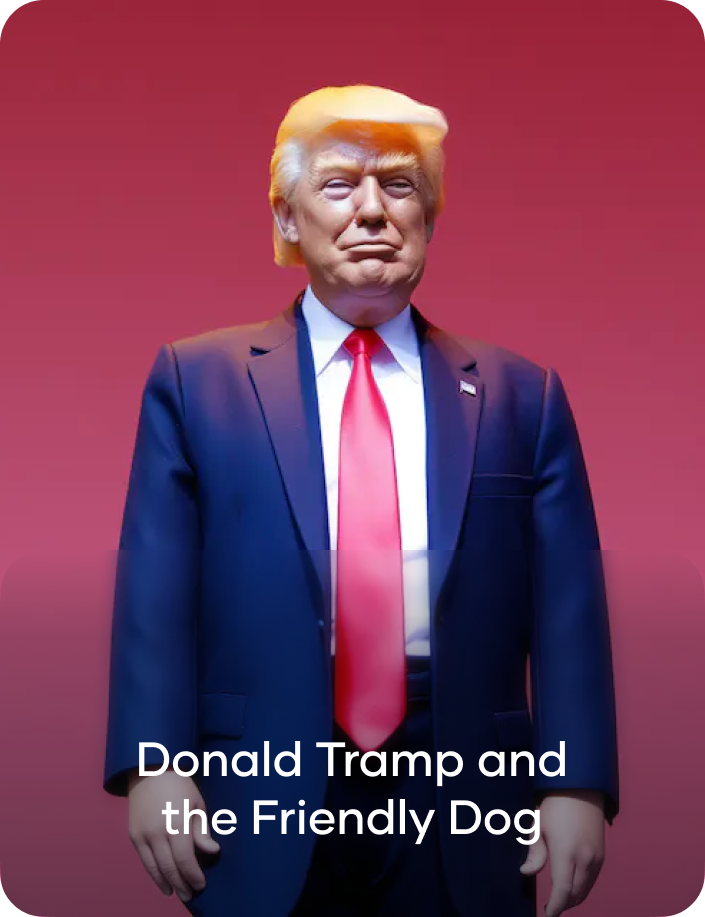
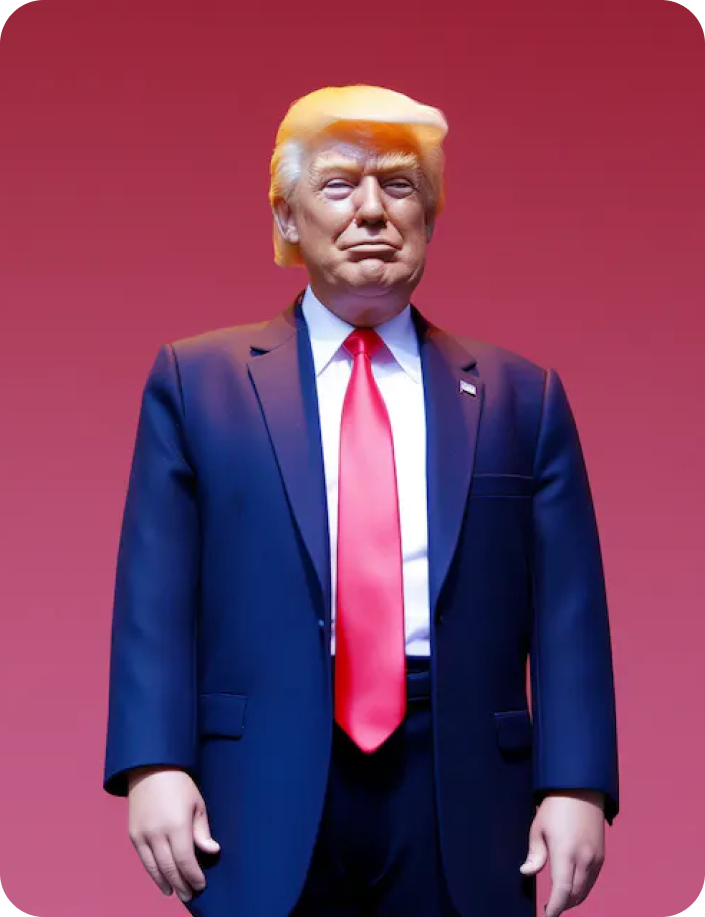
slider img replaced with bg img

Changed region(s): [[0.0, 0.5802, 1.0, 1.0]]

diff --git a/index.html b/index.html
@@ -142,22 +142,52 @@
                 <button class="toggle">toggle overflow</button>
                 <div class="wrapper">
                     <div class="box">
-                        <img class="w-3/5" src="./assets/images/elon.png" alt="">
+                        <div class="w-3/5 image" style="background-image: url('./assets/images/elon-2.png');
+                             background-size: cover; background-repeat: no-repeat; min-height: 400px; width: 70%;">
+                            <div class="flex justify-center px-8 py-10 items-end h-full">
+                                <p class="text-white text-2xl text-center gilmer-medium">Elon Mask and the Big Race</p>
+                            </div>
+                        </div>
                     </div>
                     <div class="box middle-item">
-                        <img class="w-3/5" src="./assets/images/donald.png" alt="">
+                        <div class="w-3/5 image" style="background-image: url('./assets/images/donald.png');
+                             background-size: cover; background-repeat: no-repeat; min-height: 400px;width: 70%;">
+                            <div class="flex justify-center px-8 py-10 items-end h-full">
+                                <p class="text-white text-2xl text-center gilmer-medium">Donald Tramp and the Friendly Dog</p>
+                            </div>
+                        </div>
                     </div>
                     <div class="box">
-                        <img class="w-3/5" src="./assets/images/fle.png" alt="">
+                        <div class="w-3/5 image" style="background-image: url('./assets/images/fle.png');
+                             background-size: cover; background-repeat: no-repeat; min-height: 400px;width: 70%;">
+                            <div class="flex justify-center px-8 py-10 items-end h-full">
+                                <p class="text-white text-2xl text-center gilmer-medium">Keanu Reeves</p>
+                            </div>
+                        </div>
                     </div>
                     <div class="box">
-                        <img class="w-3/5" src="./assets/images/elon.png" alt="">
+                        <div class="w-3/5 image" style="background-image: url('./assets/images/elon-2.png');
+                             background-size: cover; background-repeat: no-repeat; min-height: 400px; width: 70%;">
+                            <div class="flex justify-center px-8 py-10 items-end h-full">
+                                <p class="text-white text-2xl text-center gilmer-medium">Elon Mask and the Big Race</p>
+                            </div>
+                        </div>
+                    </div>
+                    <div class="box middle-item">
+                        <div class="w-3/5 image" style="background-image: url('./assets/images/donald.png');
+                             background-size: cover; background-repeat: no-repeat; min-height: 400px;width: 70%;">
+                            <div class="flex justify-center px-8 py-10 items-end h-full">
+                                <p class="text-white text-2xl text-center gilmer-bold">Donald Tramp and the Friendly Dog</p>
+                            </div>
+                        </div>
                     </div>
                     <div class="box">
-                        <img class="w-3/5" src="./assets/images/donald.png" alt="">
-                    </div>
-                    <div class="box">
-                        <img class="w-3/5" src="./assets/images/fle.png" alt="">
+                        <div class="w-3/5 image" style="background-image: url('./assets/images/fle.png');
+                             background-size: cover; background-repeat: no-repeat; min-height: 400px;width: 70%;">
+                            <div class="flex justify-center px-8 py-10 items-end h-full">
+                                <p class="text-white text-2xl text-center gilmer-medium">Keanu Reeves</p>
+                            </div>
+                        </div>
                     </div>
                 </div>
             </div>

diff --git a/model.html b/model.html
@@ -114,7 +114,7 @@
                 <div
                     class="text-white flex lg:w-[30%] w-full flex-col justify-center light-bgl  px-10 py-5 border-slate-700 rounded-2xl border border-solid">
                     <div><img class="mx-auto" src="./assets/images/person-circle-plus.png" alt=""></div>
-                    <p class="gilmer-medium text-center text-xl">Clone yourself into a character</p>
+                    <p class="gilmer-medium text-center mt-8 text-xl">Clone yourself into a character</p>
                 </div>
                 <div style="background-image: url('./assets/images/elon-2.png'); background-size: contain; background-repeat: no-repeat;min-height: 520px;"
                     class="text-white lg:w-[30%] w-full flex items-end">

diff --git a/assets/styling/style.css b/assets/styling/style.css
@@ -168,8 +168,8 @@ button {
   overflow: visible;
 }
 
-.middle-item img {
-  width: 100%;
+.middle-item .image {
+  width: 100% !important;
   height: 600px;
 }
 
